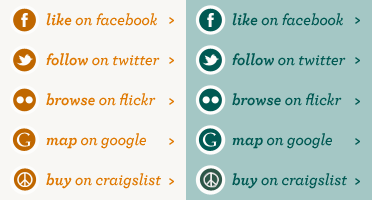
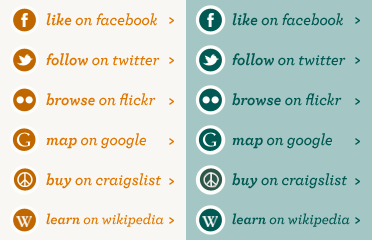
bth: wikipedia

diff --git a/templates/st-elmo/sociallinks.html b/templates/st-elmo/sociallinks.html
@@ -3,3 +3,4 @@
 							<a href="http://flickr.com/groups/stelmo" class="socialbutton flickr" target="_blank"></a>
 							<a href="http://maps.google.com/maps/ms?msid=216300052623899784151.0004b2f8449159f662884&msa=0&ll=34.999002,-85.330345&spn=0.04099,0.076818" class="socialbutton google" target="_blank"></a>
 							<a href="http://chattanooga.craigslist.org/" class="socialbutton craigslist" target="_blank"></a>
+							<a href="http://en.wikipedia.org/wiki/St._Elmo_Historic_District_(Chattanooga,_Tennessee)" class="socialbutton wikipedia" target="_blank"></a>

diff --git a/media/css/style.css b/media/css/style.css
@@ -629,6 +629,14 @@ h3 a:hover,
 .SocialSidebar a.craigslist:hover{
 	background-position:right -160px;
 }
+#SocialPanel a.wikipedia,
+.SocialSidebar a.wikipedia{
+	background-position:left -200px;
+}
+#SocialPanel a.wikipedia:hover,
+.SocialSidebar a.wikipedia:hover{
+	background-position:right -200px;
+}
 
 a.context_button{
 	float:left;
